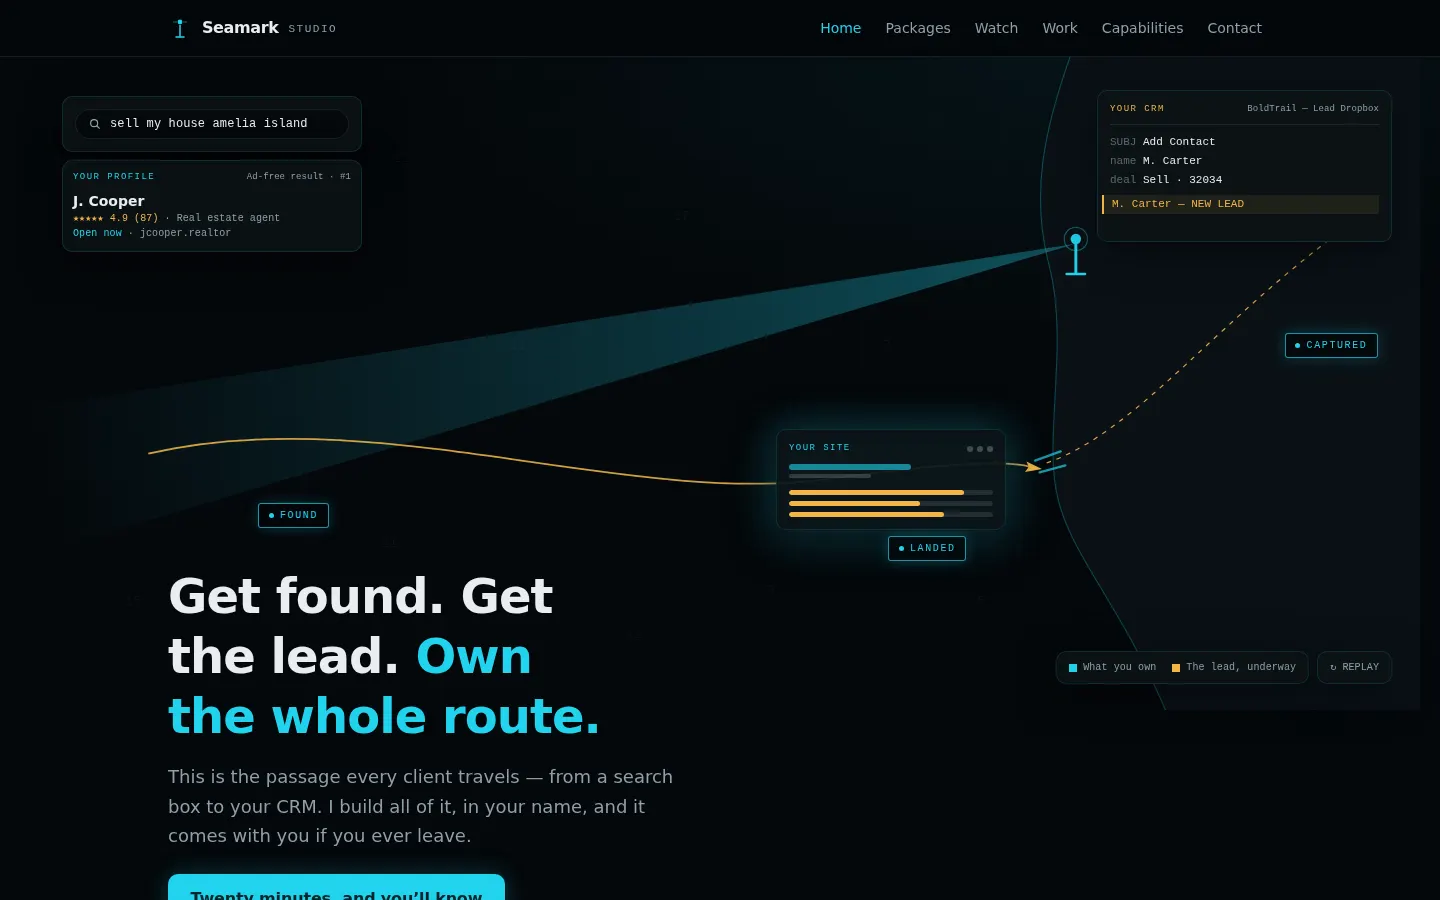
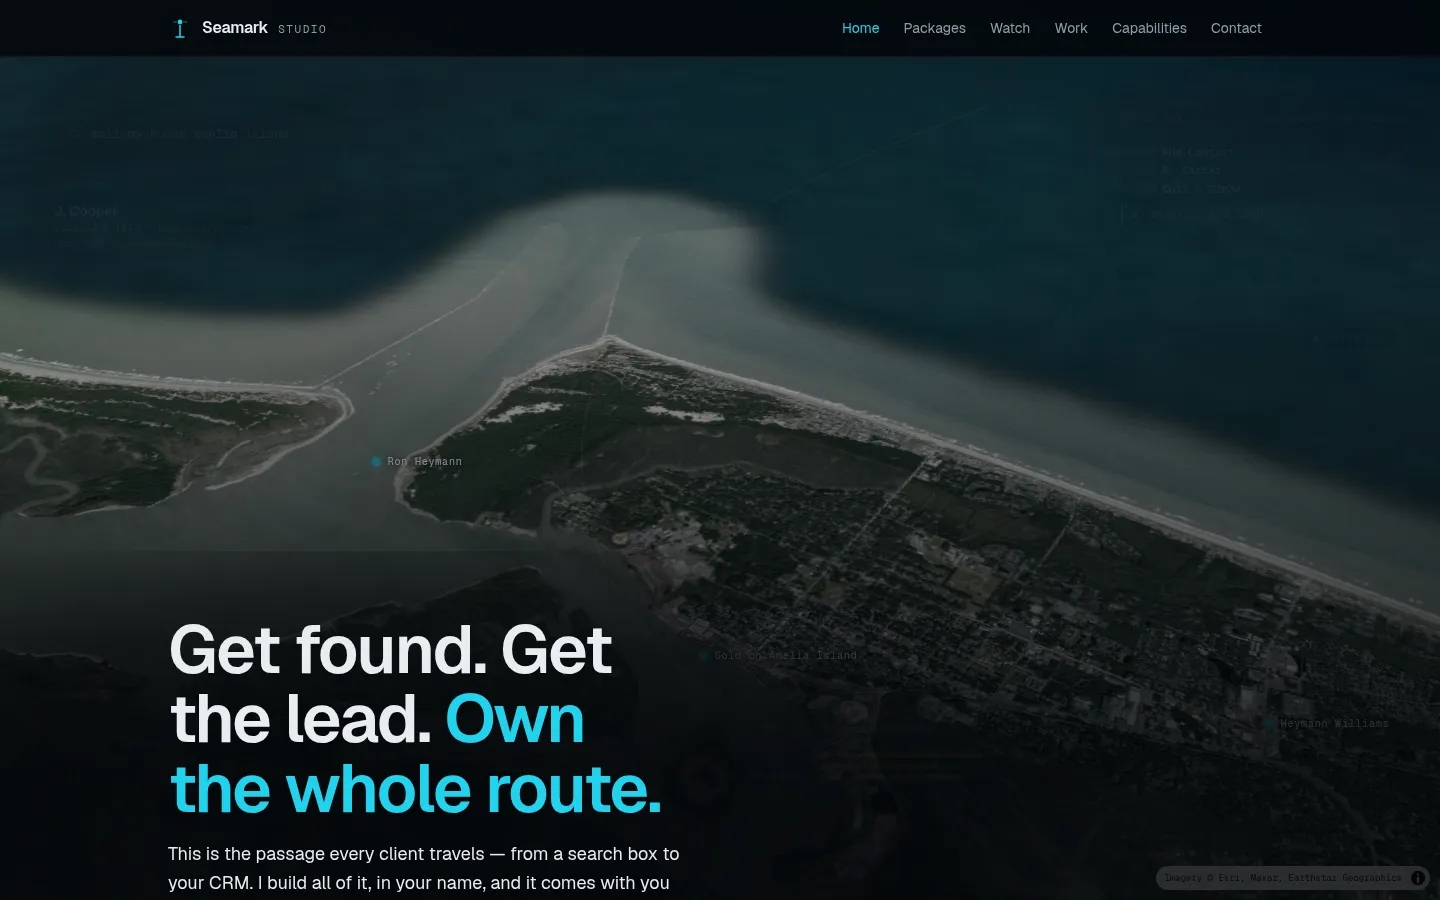
The feel iteration: lighter veil, more air, the storefront's own portrait
- The hero veil lifts a stop so the water reads present rather than murky;
  homepage bands get more vertical air — the coast deserves negative space
  to show through.
- The seamark-studio portfolio screenshots recaptured over the living
  chart, so the recursive entry shows the site as it now is.

Claude-Session: https://claude.ai/code/session_0164sTvCzMLERtKP2BCZkbis

diff --git a/src/pages/Home.tsx b/src/pages/Home.tsx
@@ -28,7 +28,7 @@ export function Home() {
       <section
         aria-label="What the old route costs"
         data-frame="home-costs"
-        className="mx-auto max-w-6xl px-4 py-16 sm:px-6"
+        className="mx-auto max-w-6xl px-4 py-24 sm:px-6"
       >
         <h2 className="text-2xl sm:text-3xl" data-reveal>
           What the old route costs
@@ -45,7 +45,7 @@ export function Home() {
       <section
         aria-label="The ownership contract"
         data-frame="home-contract"
-        className="mx-auto max-w-4xl px-4 py-16 sm:px-6"
+        className="mx-auto max-w-4xl px-4 py-24 sm:px-6"
       >
         <div data-reveal>
           <Cartouche label={ownershipContract.label} text={ownershipContract.text} />

diff --git a/src/components/ProofStrip.tsx b/src/components/ProofStrip.tsx
@@ -48,7 +48,7 @@ function WorkCard({ item }: { item: WorkItem }) {
 export function ProofStrip() {
   if (liveWork.length === 0) return null;
   return (
-    <section aria-label="Shipped work" className="mx-auto max-w-6xl px-4 py-16 sm:px-6">
+    <section aria-label="Shipped work" className="mx-auto max-w-6xl px-4 py-20 sm:px-6">
       <p className="text-lg text-(--ink)" data-reveal>
         {proofStripLine}
       </p>

diff --git a/src/styles.css b/src/styles.css
@@ -193,10 +193,10 @@ body {
 .map-veil[data-route="/"] {
   background: linear-gradient(
     to bottom,
-    rgba(4, 7, 10, 0.18),
-    rgba(4, 7, 10, 0.1) 30%,
-    rgba(4, 7, 10, 0.55) 62%,
-    rgba(4, 7, 10, 0.85) 85%
+    rgba(4, 7, 10, 0.14),
+    rgba(4, 7, 10, 0.08) 30%,
+    rgba(4, 7, 10, 0.48) 62%,
+    rgba(4, 7, 10, 0.84) 85%
   );
 }
 
